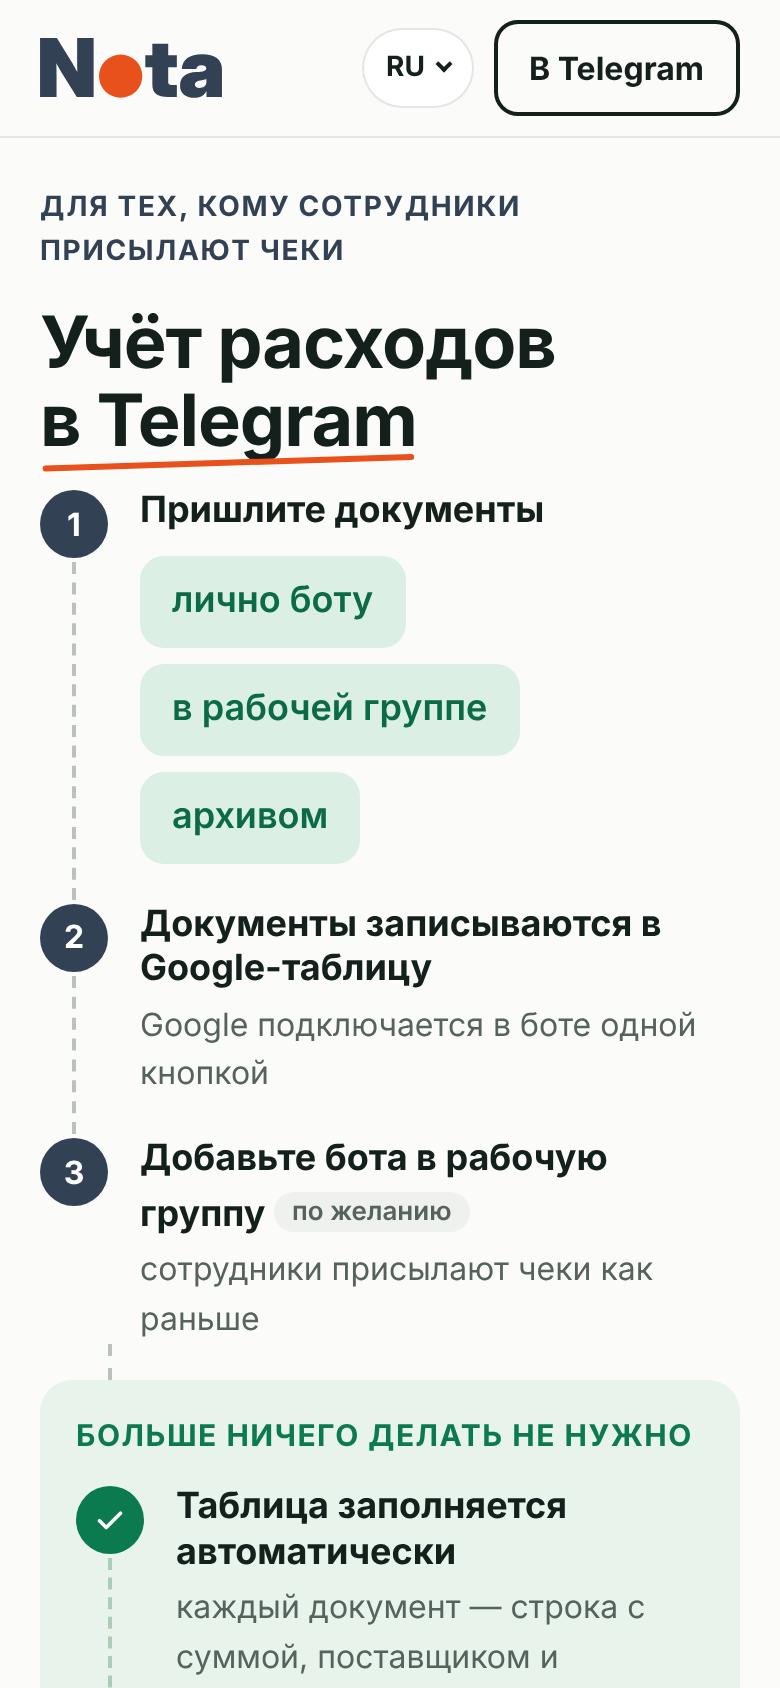
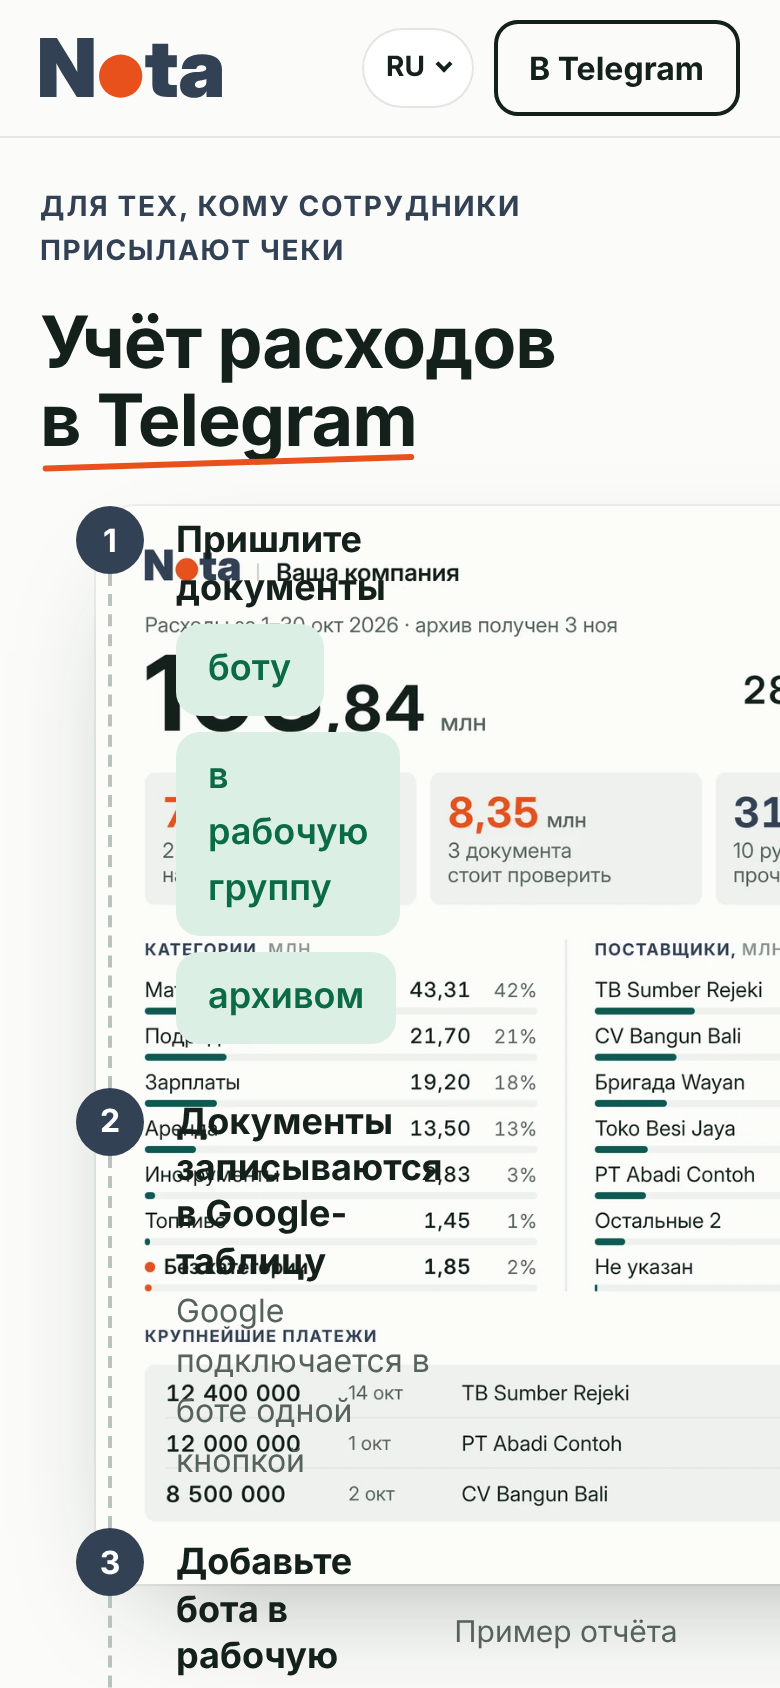
Sketch F: one-line headline, aligned step markers, 'Всё настроено' block
Claude-Session: https://claude.ai/code/session_01L3HhR7LSGwJtypFbeUeh92

diff --git a/founder/landing-start-sketch/f.html b/founder/landing-start-sketch/f.html
@@ -1,12 +1,14 @@
 <!doctype html><html lang="ru"><head><meta charset="utf-8"><meta name="viewport" content="width=device-width,initial-scale=1">
 <title>Вариант F — учёт расходов в Telegram, путь основателя</title><link rel="stylesheet" href="https://fonts.googleapis.com/css2?family=Caveat:wght@500;700&display=swap"><link rel="stylesheet" href="site.css"><link rel="stylesheet" href="mk.css"></head>
-<body class="mk mk-f"><header class="header"> <div class="wrap"> <a class="logo-link" href="/" aria-label="Nota — на главную"><svg viewBox="10.71 10.71 541.38 178.58" width="91" height="30" role="img" aria-label="Nota" class="logo"> <path fill="var(--slate)" d="M10.71 186.45H59.78V122.29C59.78 115.22 59.78 101.42 59.19 85.61C67.45 100.83 75.23 114.39 80.18 122.29L120.17 186.45H170.18V10.71H121.11V75.11C121.11 83.49 121.23 97.76 121.7 112.03C114.86 99.41 107.67 86.32 103.54 79.71L60.72 10.71H10.71ZM417.87 61.9H392.15V27.93H344.98V61.9H323.98V97.76H344.98V149.18C344.98 175.13 359.25 186.45 391.92 186.45H417.87V150.6H403.01C394.4 150.6 392.15 148.36 392.15 140.93V97.76H417.87ZM469.76 188.7C485.69 188.7 497.36 183.86 505.62 169H506.09V186.45H552.09V103.18C552.09 74.88 531.57 59.07 493.12 59.07C454.9 59.07 434.5 74.88 432.49 103.18H475.66C476.49 95.87 481.91 91.86 491.23 91.86C499.84 91.86 505.38 95.4 505.38 100.83V101.3C505.38 108.14 497.13 110.73 475.19 112.15C448.3 113.92 427.3 124.18 427.3 152.01C427.3 176.78 444.76 188.7 469.76 188.7ZM485.1 159.33C477.08 159.33 471.41 155.55 471.41 149.18C471.41 142.81 477.31 138.57 486.98 136.92C495.71 135.38 501.14 134.09 505.85 132.44V142.34C505.85 153.43 495.24 159.33 485.1 159.33Z"></path> <circle cx="250.62" cy="124.18" r="64.4" fill="#E8501C"></circle> </svg></a> <nav aria-label="Разделы"><a href="#result">Отчёт</a><a href="#analytics">Таблица</a><a href="#price">Цены</a><a href="#data">Данные</a><a href="#faq">Вопросы</a></nav> <!-- Языки (основатель, 19.11): пока только русский; EN и ID — «скоро», без перехода на пустую страницу --> <div class="lang" role="group" aria-label="Язык сайта"> <button type="button" class="lang-b" aria-disabled="true" data-soon="Coming soon">EN</button> <button type="button" class="lang-b" aria-disabled="true" data-soon="Segera hadir">ID</button> <span class="lang-b on" aria-current="true">RU</span> </div> <details class="lang-m"> <summary aria-label="Язык сайта: русский">RU</summary> <div class="lang-menu"><span>EN <small>Coming soon</small></span><span>ID <small>Segera hadir</small></span></div> </details> <a class="btn btn--sm btn--dark" href="https://t.me/NotaGetBot?start=land10_header"><span class="hb-lg">Открыть в Telegram</span><span class="hb-sm">В Telegram</span></a> </div> </header><main class="tight v7 v8 v9 v10 v11"><section class="hero mk-hero mk-hero--e"><div class="wrap mk-split mk-split--f">
-<div class="mk-left">
+<body class="mk mk-f"><header class="header"> <div class="wrap"> <a class="logo-link" href="/" aria-label="Nota — на главную"><svg viewBox="10.71 10.71 541.38 178.58" width="91" height="30" role="img" aria-label="Nota" class="logo"> <path fill="var(--slate)" d="M10.71 186.45H59.78V122.29C59.78 115.22 59.78 101.42 59.19 85.61C67.45 100.83 75.23 114.39 80.18 122.29L120.17 186.45H170.18V10.71H121.11V75.11C121.11 83.49 121.23 97.76 121.7 112.03C114.86 99.41 107.67 86.32 103.54 79.71L60.72 10.71H10.71ZM417.87 61.9H392.15V27.93H344.98V61.9H323.98V97.76H344.98V149.18C344.98 175.13 359.25 186.45 391.92 186.45H417.87V150.6H403.01C394.4 150.6 392.15 148.36 392.15 140.93V97.76H417.87ZM469.76 188.7C485.69 188.7 497.36 183.86 505.62 169H506.09V186.45H552.09V103.18C552.09 74.88 531.57 59.07 493.12 59.07C454.9 59.07 434.5 74.88 432.49 103.18H475.66C476.49 95.87 481.91 91.86 491.23 91.86C499.84 91.86 505.38 95.4 505.38 100.83V101.3C505.38 108.14 497.13 110.73 475.19 112.15C448.3 113.92 427.3 124.18 427.3 152.01C427.3 176.78 444.76 188.7 469.76 188.7ZM485.1 159.33C477.08 159.33 471.41 155.55 471.41 149.18C471.41 142.81 477.31 138.57 486.98 136.92C495.71 135.38 501.14 134.09 505.85 132.44V142.34C505.85 153.43 495.24 159.33 485.1 159.33Z"></path> <circle cx="250.62" cy="124.18" r="64.4" fill="#E8501C"></circle> </svg></a> <nav aria-label="Разделы"><a href="#result">Отчёт</a><a href="#analytics">Таблица</a><a href="#price">Цены</a><a href="#data">Данные</a><a href="#faq">Вопросы</a></nav> <!-- Языки (основатель, 19.11): пока только русский; EN и ID — «скоро», без перехода на пустую страницу --> <div class="lang" role="group" aria-label="Язык сайта"> <button type="button" class="lang-b" aria-disabled="true" data-soon="Coming soon">EN</button> <button type="button" class="lang-b" aria-disabled="true" data-soon="Segera hadir">ID</button> <span class="lang-b on" aria-current="true">RU</span> </div> <details class="lang-m"> <summary aria-label="Язык сайта: русский">RU</summary> <div class="lang-menu"><span>EN <small>Coming soon</small></span><span>ID <small>Segera hadir</small></span></div> </details> <a class="btn btn--sm btn--dark" href="https://t.me/NotaGetBot?start=land10_header"><span class="hb-lg">Открыть в Telegram</span><span class="hb-sm">В Telegram</span></a> </div> </header><main class="tight v7 v8 v9 v10 v11"><section class="hero mk-hero mk-hero--e mk-hero--f"><div class="wrap">
 <span class="hero-eyebrow">Для тех, кому сотрудники присылают чеки</span>
-<h1>Учёт расходов <span class="mk-u">в Telegram<svg class="mk-under" viewBox="0 0 200 16" preserveAspectRatio="none" aria-hidden="true"><path d="M3 13C50 11.5 120 8 197 4"/></svg></span></h1>
-<ol class="f-flow"><li><span class="e-n">1</span><div><b>Пришлите документы</b><span class="f-d"><span class="f-chips"><i>лично боту</i><i>в рабочей группе</i><i>архивом</i></span></span></div></li><li><span class="e-n">2</span><div><b>Документы записываются в Google-таблицу</b><span class="f-d">Google подключается в боте одной кнопкой</span></div></li><li><span class="e-n">3</span><div><b>Добавьте бота в рабочую группу <em>по желанию</em></b><span class="f-d">сотрудники присылают чеки как раньше</span></div></li></ol><div class="f-auto"><div class="f-auto-h">Больше ничего делать не нужно</div><ol class="f-flow"><li><span class="e-n f-ok"><svg viewBox="0 0 24 24" width="18" height="18" aria-hidden="true" fill="none" stroke="currentColor" stroke-width="2.4" stroke-linecap="round" stroke-linejoin="round"><path d="M5 12.5l4.5 4.5L19 7.5"/></svg></span><div><b>Таблица заполняется автоматически</b><span class="f-d">каждый документ — строка с суммой, поставщиком и категорией, дубли отмечены</span></div></li><li><span class="e-n f-ok"><svg viewBox="0 0 24 24" width="18" height="18" aria-hidden="true" fill="none" stroke="currentColor" stroke-width="2.4" stroke-linecap="round" stroke-linejoin="round"><path d="M5 12.5l4.5 4.5L19 7.5"/></svg></span><div><b>Отчёты приходят по расписанию</b><span class="f-d">каждый понедельник — за неделю, 1-го числа — за месяц</span></div></li></ol></div>
+<h1 class="f-h1">Учёт расходов <span class="mk-u">в Telegram<svg class="mk-under" viewBox="0 0 200 16" preserveAspectRatio="none" aria-hidden="true"><path d="M3 13C50 11.5 120 8 197 4"/></svg></span></h1>
+<div class="mk-split mk-split--f">
+<div class="mk-left">
+<ol class="f-flow"><li><span class="e-n">1</span><div><b>Пришлите документы</b><span class="f-d"><span class="f-chips"><i>боту</i><i>в рабочую группу</i><i>архивом</i></span></span></div></li><li><span class="e-n">2</span><div><b>Документы записываются в Google-таблицу</b><span class="f-d">Google подключается в боте одной кнопкой</span></div></li><li><span class="e-n">3</span><div><b>Добавьте бота в рабочую группу <em>по желанию</em></b><span class="f-d">чеки, которые сотрудники присылают в группу, тоже попадут в таблицу</span></div></li></ol><div class="f-auto"><div class="f-auto-h">Всё настроено</div><ol class="f-flow"><li><span class="e-n f-ok"><svg viewBox="0 0 24 24" width="18" height="18" aria-hidden="true" fill="none" stroke="currentColor" stroke-width="2.4" stroke-linecap="round" stroke-linejoin="round"><path d="M5 12.5l4.5 4.5L19 7.5"/></svg></span><div><b>Таблица заполняется автоматически</b><span class="f-d">каждый документ — новая строка, дубли отмечены</span></div></li><li><span class="e-n f-ok"><svg viewBox="0 0 24 24" width="18" height="18" aria-hidden="true" fill="none" stroke="currentColor" stroke-width="2.4" stroke-linecap="round" stroke-linejoin="round"><path d="M5 12.5l4.5 4.5L19 7.5"/></svg></span><div><b>Отчёты приходят по расписанию</b><span class="f-d">по понедельникам за неделю и 1-го числа за месяц</span></div></li></ol></div>
 <div class="cta-row cta-row--qr"><a class="btn" href="#">Начать бесплатно</a><div class="cta-qr"><img src="http://localhost:4321/screens/qr-bot-v10.svg" alt="" width="54" height="54"><span>Или камерой телефона</span></div></div>
 <p class="cta-line">30 документов бесплатно, без карты и регистрации</p>
 </div>
 <figure class="mk-report"><img src="http://localhost:4321/screens/report-archive-1080.webp" alt="Пример отчёта" width="1080" height="1238"><figcaption>Пример отчёта</figcaption></figure>
+</div>
 </div></section><section class="section mk-sec mk-teaser"><div class="wrap"><div class="mk-same mk-same--e">Дальше — текущий лендинг: что покажет отчёт, таблица, как присылать, что делает Nota, для кого, цены, данные, вопросы</div></div></section></main></body></html>

diff --git a/founder/landing-start-sketch/mk.css b/founder/landing-start-sketch/mk.css
@@ -194,22 +194,28 @@
 .mk-same--e { margin-left: 0; }
 @media (max-width: 900px) { .e-steps b { font-size: 19px; } .e-steps li span:not(.e-n) { font-size: 16px; } }
 
-/* F: путь основателя */
-.mk-split--f { align-items: start; }
-.mk-split--f .mk-report { margin-top: 40px; }
-.f-flow { list-style: none; margin: 0; padding: 0; }
-.f-flow li { display: flex; gap: 16px; align-items: flex-start; position: relative; padding-bottom: 20px; }
-.f-flow li:last-child { padding-bottom: 0; }
-.f-flow li:not(:last-child)::before { content: ''; position: absolute; left: 16px; top: 36px; bottom: 2px; border-left: 2px dashed #b9c2bd; }
-.f-flow b { display: block; font-size: 21px; line-height: 1.25; }
-.f-flow b em { font-style: normal; font-size: 13px; font-weight: 600; color: var(--muted); background: var(--box); border-radius: 999px; padding: 2px 9px; margin-left: 6px; vertical-align: 3px; white-space: nowrap; }
-.f-d { display: block; font-size: 16px; color: var(--muted); margin-top: 3px; }
-.f-chips { display: flex; flex-wrap: wrap; gap: 8px; margin-top: 10px; }
+/* F: путь основателя. Кружки шагов и галочек на одной вертикали: x = 18px, пунктир по их центру (x = 35px) */
+.mk-hero--f h1.f-h1 { margin-bottom: 36px; white-space: nowrap; }
+.mk-split--f { align-items: start; grid-template-columns: minmax(0, 1fr) 470px; }
+.mk-split--f .mk-report { margin-top: 0; }
+.f-flow { list-style: none; margin: 0; padding: 0 0 0 18px; }
+.f-flow li { display: flex; gap: 16px; align-items: flex-start; position: relative; padding-bottom: 22px; }
+.f-flow li::before { content: ''; position: absolute; left: 16px; top: 34px; bottom: 0; border-left: 2px dashed #b9c2bd; }
+.f-flow .e-n { position: relative; z-index: 1; }
+.f-flow b { display: block; font-size: 21px; line-height: 34px; }
+.f-flow b em { font-style: normal; font-size: 13px; font-weight: 600; line-height: 1; color: var(--muted); background: var(--box); border-radius: 999px; padding: 4px 9px; margin-left: 6px; vertical-align: 3px; white-space: nowrap; }
+.f-d { display: block; font-size: 16px; color: var(--muted); margin-top: 0; }
+.f-chips { display: flex; flex-wrap: wrap; gap: 8px; margin-top: 6px; }
 .f-chips i { font-style: normal; font-size: 18px; font-weight: 600; color: var(--green-text); background: #dcefe4; border-radius: 12px; padding: 9px 16px; }
-.f-auto { margin: 18px 0 30px; padding: 16px 18px 18px; background: #e8f3ec; border-radius: 16px; position: relative; }
-.f-auto::before { content: ''; position: absolute; left: 34px; top: -18px; height: 18px; border-left: 2px dashed #b9c2bd; }
-.f-auto-h { font-size: 15px; font-weight: 700; letter-spacing: .05em; text-transform: uppercase; color: var(--green); margin-bottom: 14px; }
+.f-auto { margin: 0 0 30px; padding: 16px 18px 18px 0; background: #e8f3ec; border-radius: 16px; position: relative; }
+.f-auto::before { content: ''; position: absolute; left: 34px; top: 0; height: 48px; border-left: 2px dashed #a9cdb7; }
+.f-auto-h { margin: 0 0 14px 68px; font-size: 15px; line-height: 18px; font-weight: 700; letter-spacing: .05em; text-transform: uppercase; color: var(--green); }
+.f-auto .f-flow li::before { border-left-color: #a9cdb7; }
+.f-auto .f-flow li:last-child { padding-bottom: 0; }
+.f-auto .f-flow li:last-child::before { display: none; }
 .f-ok { background: var(--green) !important; }
-.f-auto .f-flow li:not(:last-child)::before { border-left-color: #a9cdb7; }
-@media (max-width: 900px) { .f-flow b { font-size: 18px; } .f-flow b em { display: inline-block; margin: 4px 0 0; } .mk-split--f .mk-report { margin-top: 0; } }
-.f-flow b em.f-main { color: #b33d12; background: #fde7dc; }
+@media (max-width: 900px) {
+  .mk-hero--f h1.f-h1 { white-space: normal; margin-bottom: 24px; }
+  .f-flow b { font-size: 18px; line-height: 1.3; padding-top: 6px; }
+  .f-flow b em { display: inline-block; margin: 4px 0 0; }
+}

diff --git a/founder/landing-start-sketch/build.py b/founder/landing-start-sketch/build.py
@@ -245,30 +245,32 @@ E = page('e', 'Вариант E — учёт расходов в Telegram', e_he
 
 
 # ---------- Вариант F: путь основателя (21.11). Вы делаете 1–4, дальше само 5–6. От вас — только чеки ----------
-CHIPS = '<span class="f-chips"><i>лично боту</i><i>в рабочей группе</i><i>архивом</i></span>'
+CHIPS = '<span class="f-chips"><i>боту</i><i>в рабочую группу</i><i>архивом</i></span>'
 F_YOU = [
     ('Пришлите документы', '', CHIPS),
     ('Документы записываются в Google-таблицу', '', 'Google подключается в боте одной кнопкой'),
-    ('Добавьте бота в рабочую группу', 'по желанию', 'сотрудники присылают чеки как раньше'),
+    ('Добавьте бота в рабочую группу', 'по желанию', 'чеки, которые сотрудники присылают в группу, тоже попадут в таблицу'),
 ]
 F_AUTO = [
-    ('Таблица заполняется автоматически', 'каждый документ — строка с суммой, поставщиком и категорией, дубли отмечены'),
-    ('Отчёты приходят по расписанию', 'каждый понедельник — за неделю, 1-го числа — за месяц'),
+    ('Таблица заполняется автоматически', 'каждый документ — новая строка, дубли отмечены'),
+    ('Отчёты приходят по расписанию', 'по понедельникам за неделю и 1-го числа за месяц'),
 ]
 CHK = '<svg viewBox="0 0 24 24" width="18" height="18" aria-hidden="true" fill="none" stroke="currentColor" stroke-width="2.4" stroke-linecap="round" stroke-linejoin="round"><path d="M5 12.5l4.5 4.5L19 7.5"/></svg>'
 f_flow = '<ol class="f-flow">' + ''.join(
     f'<li><span class="e-n">{i}</span><div><b>{a}{f' <em>{tag}</em>' if tag else ""}</b><span class="f-d">{d}</span></div></li>' for i, (a, tag, d) in enumerate(F_YOU, 1)) + '</ol>' + \
-    '<div class="f-auto"><div class="f-auto-h">Больше ничего делать не нужно</div><ol class="f-flow">' + ''.join(
+    '<div class="f-auto"><div class="f-auto-h">Всё настроено</div><ol class="f-flow">' + ''.join(
     f'<li><span class="e-n f-ok">{CHK}</span><div><b>{a}</b><span class="f-d">{d}</span></div></li>' for a, d in F_AUTO) + '</ol></div>'
-f_hero = f"""<section class="hero mk-hero mk-hero--e"><div class="wrap mk-split mk-split--f">
-<div class="mk-left">
+f_hero = f"""<section class="hero mk-hero mk-hero--e mk-hero--f"><div class="wrap">
 <span class="hero-eyebrow">Для тех, кому сотрудники присылают чеки</span>
-<h1>Учёт расходов {u("в Telegram")}</h1>
+<h1 class="f-h1">Учёт расходов {u("в Telegram")}</h1>
+<div class="mk-split mk-split--f">
+<div class="mk-left">
 {f_flow}
 <div class="cta-row cta-row--qr"><a class="btn" href="#">Начать бесплатно</a>{QR}</div>
 <p class="cta-line">30 документов бесплатно, без карты и регистрации</p>
 </div>
 {REPORT_IMG}
+</div>
 </div></section>"""
 F = page('f', 'Вариант F — учёт расходов в Telegram, путь основателя', f_hero + E_REST)
 
